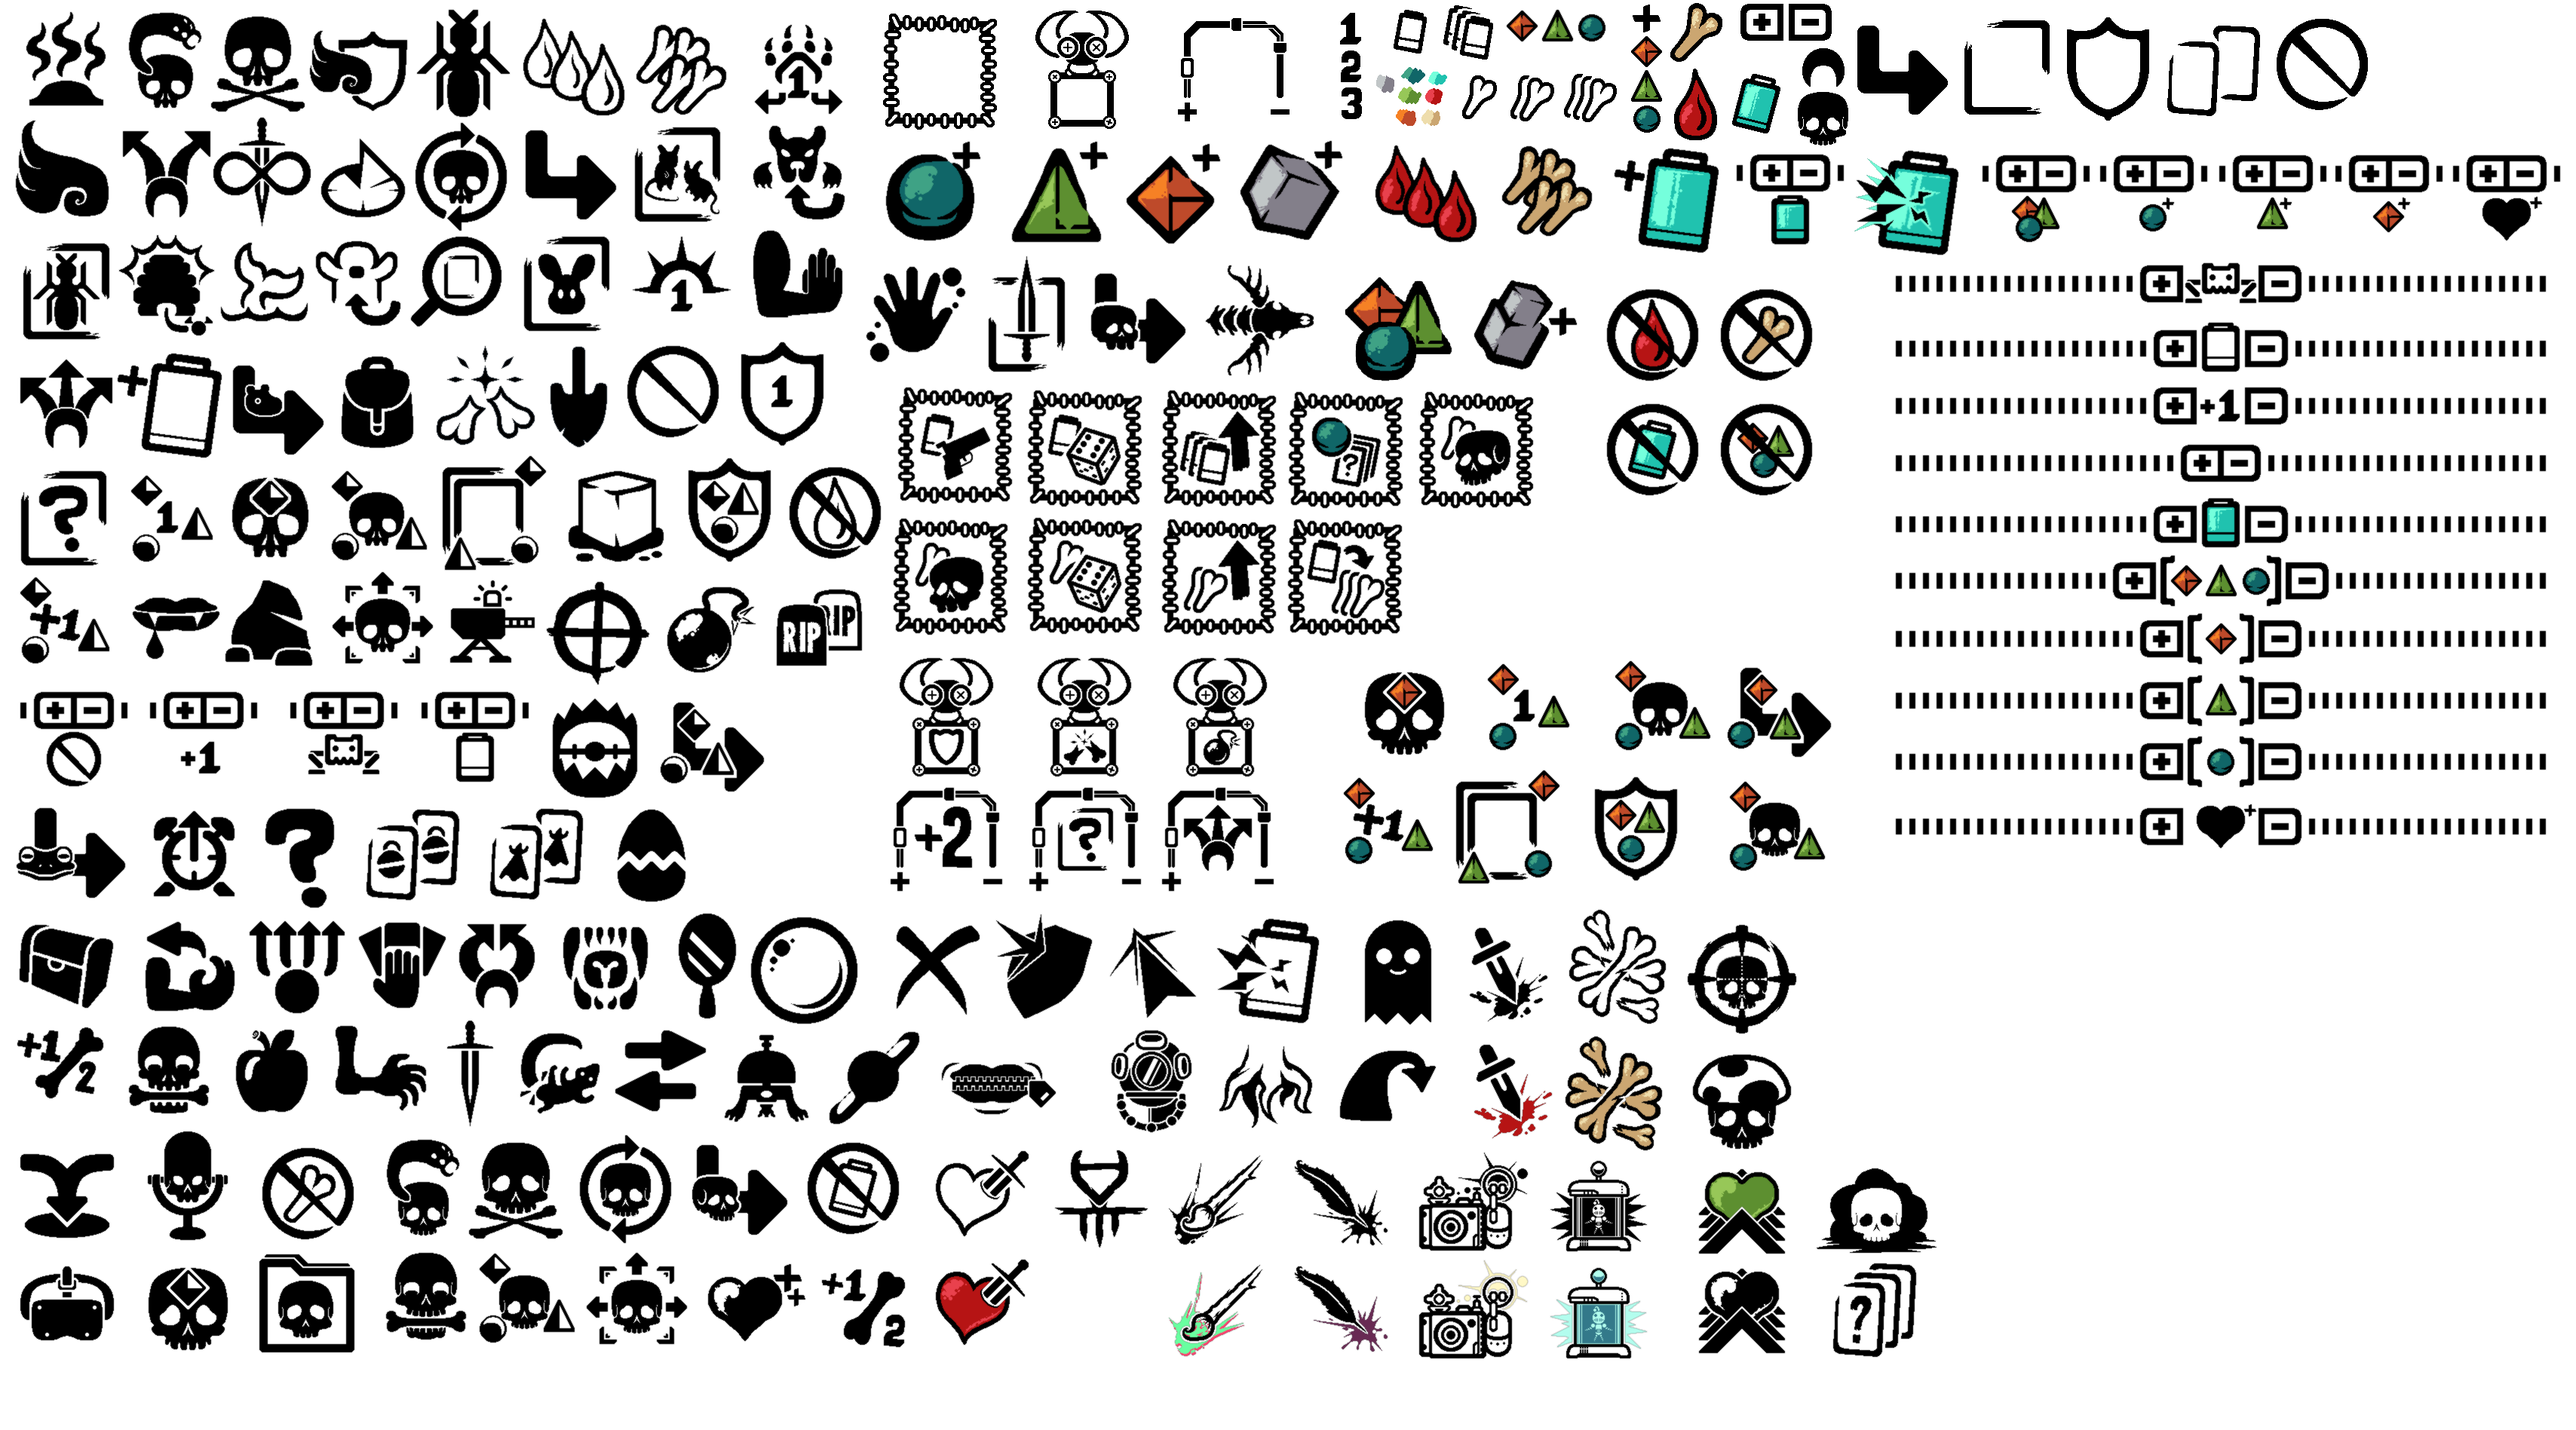
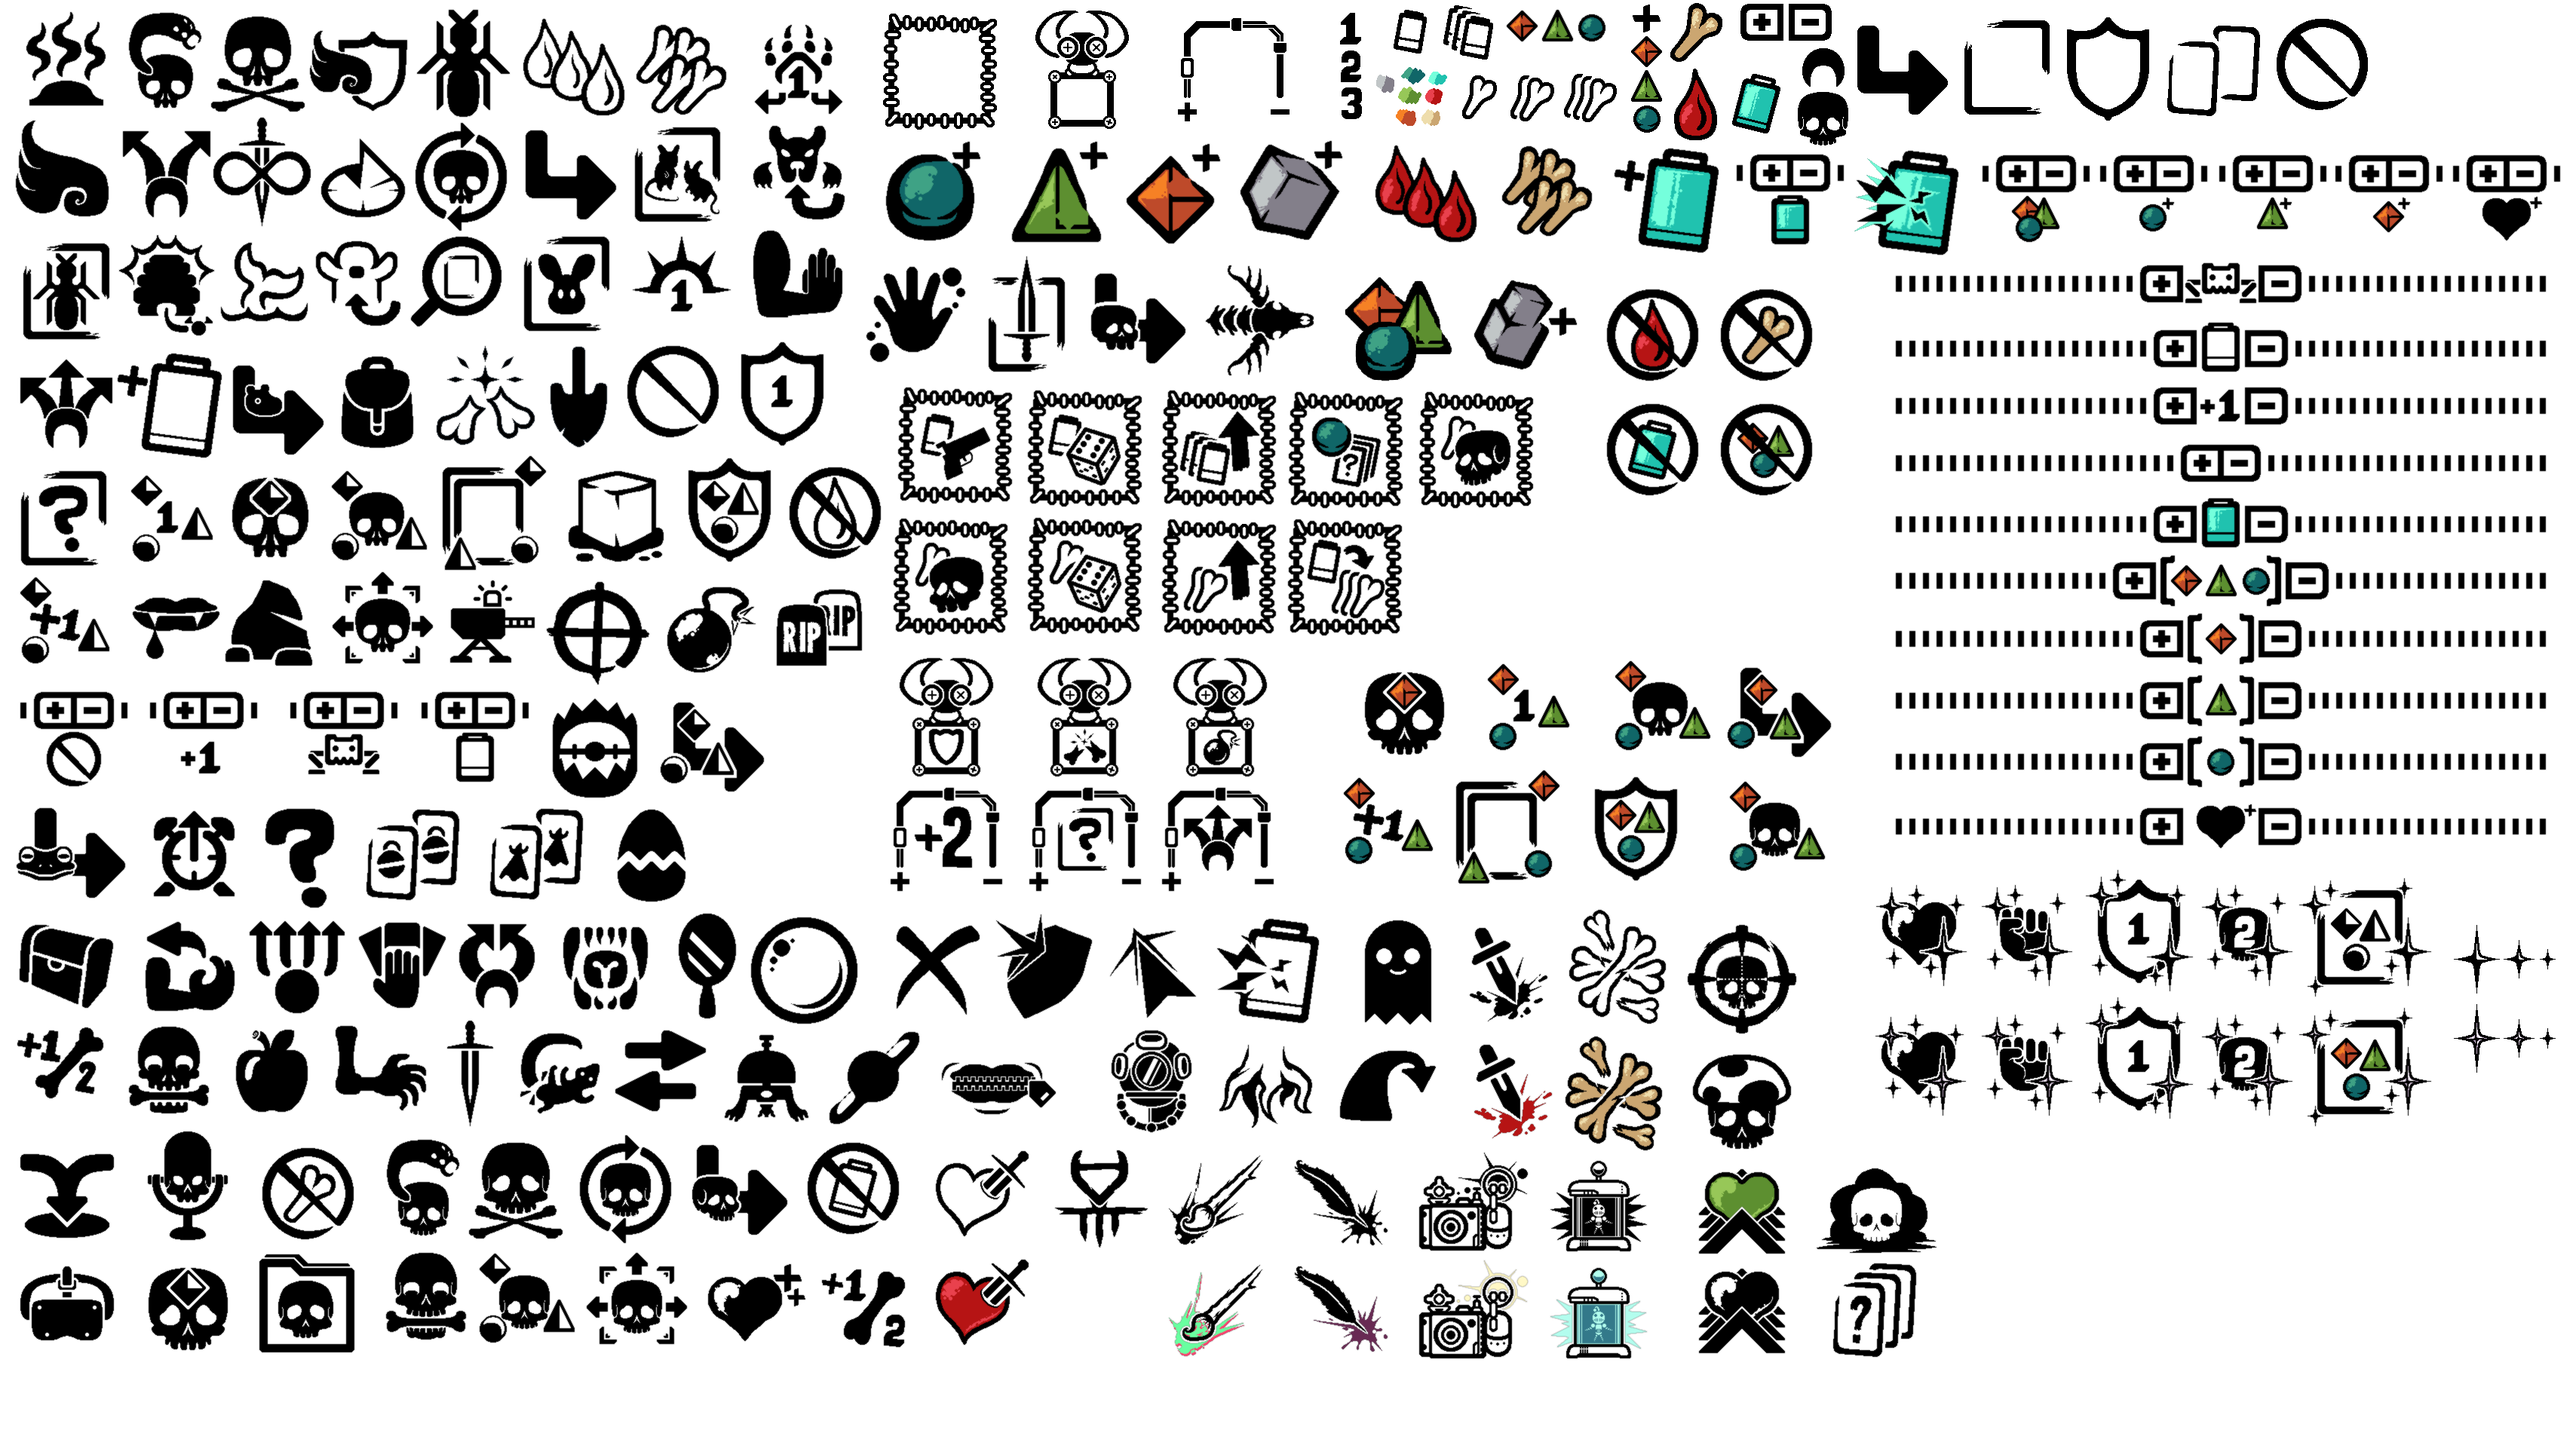
cell update
added support for transform/cell boxes, corrected incorrect printing positions, added several missing sigil icons

Changed region(s): [[0.7137, 0.622, 0.993, 0.7775]]

diff --git a/addtext.py b/addtext.py
@@ -375,8 +375,8 @@ def printCard(info,savePath="output",show=False,prefix="01x 001 "):
     shadowText(I1,968,1331,str(int(info["health"])),statFont,anchor="ra")
 
     # Next, we will add the sigils.
-    sigilx = 151
-    sigily = 921
+    sigilx = 150
+    sigily = 920
     conduit = False
     for isig in info["sigils"]:
         if "Conduit" in isig:
@@ -388,6 +388,12 @@ def printCard(info,savePath="output",show=False,prefix="01x 001 "):
     #end if
     for isig in info["sigils"]:
         #print(isig)
+        # see if this is a wacky meta sigil like cell or latcher
+        if isig in METASIGILS:
+            alphaPaste(img,0,sigily,isig+".png")
+            sigily+=120
+            continue
+        #end if
         # fetch icon and paste
         try:
             sigilImg = Image.open("sigils/"+isig+".png")
@@ -491,12 +497,14 @@ def printCard(info,savePath="output",show=False,prefix="01x 001 "):
             )
 
     # At last, grace it with a description. Something for flavor.
-    I1.text((561,sigily),
-            info["flavor"],
-            fill=(0,0,0),
-            font=italFont,
-            anchor="ma"
-            )
+    if info["flavor"] != "BLANK":
+        I1.text((561,sigily),
+                info["flavor"],
+                fill=(0,0,0),
+                font=italFont,
+                anchor="ma"
+                )
+    #end if
 
     # Name the card.
     shadowText(I1,136,136,info["name"],nameFont)
